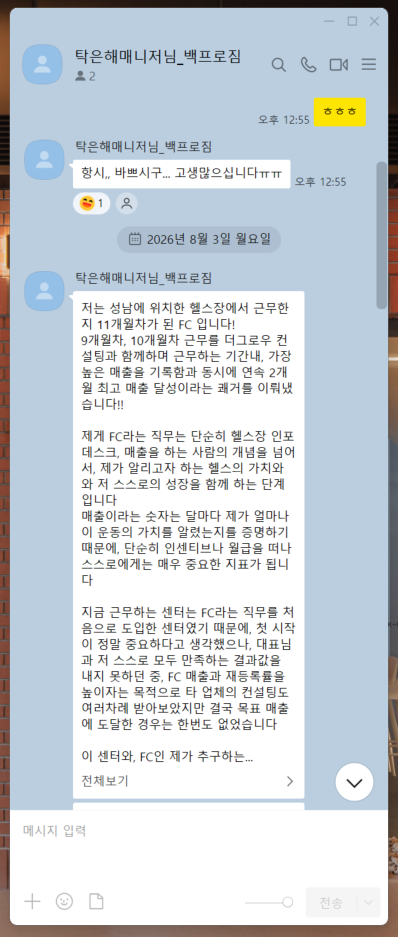
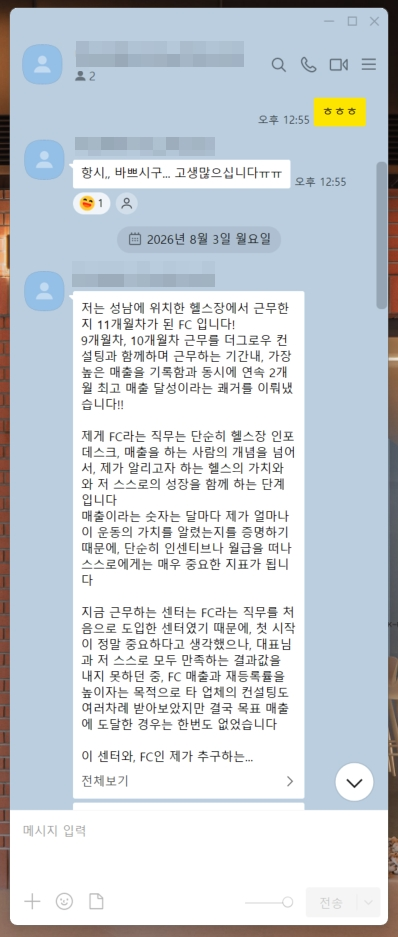
feat: 현장실습 사진 연결·후기 모자이크본 교체
· DCC_IMG.field 에 /edu/dcc/field.jpg 연결. object-position: center 30%
   으로 인물이 가운데 위쪽에 오게 잡았다. 라이트박스 확대 제외 대상이라
   DCC_NO_ZOOM 에도 올려, 나중에 zoom 을 켜더라도 제외가 유지된다.
 · 후기 3장을 모자이크 처리본으로 교체했다. 파일명을 그대로 두고 내용만
   덮어썼기 때문에 브라우저가 구버전을 캐시에서 꺼내 쓸 수 있어, 경로에
   ?v=2 를 붙여 다른 URL 로 취급되게 했다. 다음에 또 교체할 때는 숫자를 올린다.

photothumb.db (사진 뷰어가 만든 썸네일 캐시) 는 커밋에서 제외했다.

diff --git a/app/edu/diagnostic-consultant/DiagnosticConsultant.tsx b/app/edu/diagnostic-consultant/DiagnosticConsultant.tsx
@@ -23,7 +23,7 @@ import { useEffect, useRef, useState } from "react";
    · 확장자는 실제 파일과 정확히 일치시켜야 한다 (후기는 .jpg, 산출물은 .png). */
 const DCC_IMG = {
   hero: "", // 히어로 배경 (현장/강의 사진)
-  field: "", // 현장실습 사진
+  field: "/edu/dcc/field.jpg", // 현장실습 사진
   faculty: {
     kimSeungho: "/consultants/kim-seungho.jpg",
     kimJaegang: "/consultants/kim-jaegang.jpg",
@@ -36,11 +36,13 @@ const DCC_IMG = {
     "/edu/dcc/output-02.png",
     "/edu/dcc/output-03.png",
   ],
-  // 고객사 대표·관리자가 보내온 메시지 캡처
+  // 고객사 대표·관리자가 보내온 메시지 캡처.
+  // ?v=N 은 캐시 무효화용이다. 파일명을 그대로 두고 내용만 덮어쓰면 브라우저가
+  // 구버전을 캐시에서 꺼내 쓴다. 이미지를 다시 교체할 때는 이 숫자를 올린다.
   reviews: [
-    "/edu/dcc/review-01.jpg",
-    "/edu/dcc/review-02.jpg",
-    "/edu/dcc/review-03.jpg",
+    "/edu/dcc/review-01.jpg?v=2",
+    "/edu/dcc/review-02.jpg?v=2",
+    "/edu/dcc/review-03.jpg?v=2",
   ],
 };
 
@@ -52,7 +54,7 @@ const OUTPUT_CAPTIONS = [
 ];
 
 // 라이트박스 확대에서 제외할 이미지. 매출추이 그래프는 썸네일로만 보여준다.
-const DCC_NO_ZOOM = ["/edu/dcc/case02-03.png"];
+const DCC_NO_ZOOM = ["/edu/dcc/case02-03.png", "/edu/dcc/field.jpg"];
 
 /* ▼▼ 기수 변경 시 이 상수만 수정 ▼▼ */
 const DCC = {
@@ -721,6 +723,9 @@ const DETAIL_HTML = `<div class="dcc">
 .dcc-dark .dcc-fig-cap{color:#A9B8B1}
 .dcc-out-img img{object-position:top left}
 
+/* 09 현장실습 사진 — 인물이 가운데 위쪽에 오도록 */
+.dcc-field-img img{object-position:center 30%}
+
 /* 08 강사진 사진 — 얼굴이 잘리지 않게 위쪽 기준 */
 .dcc-fac-img img{object-position:center top}
 
@@ -1068,7 +1073,7 @@ const DETAIL_HTML = `<div class="dcc">
       <span class="dcc-flow-step">진단</span>
     </div>
     <p class="dcc-lead dcc-rv">최대 ${DCC.capacity}명의 교육생을 가능한 한 1인 1매장으로 배치합니다. 직원처럼 일하는 것이 아니라 고객·영업·수업·CRM·운영 흐름을 관찰하고 질문하는 실습입니다.</p>
-    <div class="dcc-rv">${imgBox(DCC_IMG.field, "현장실습 진행 모습", "16/9")}</div>
+    <div class="dcc-rv">${imgBox(DCC_IMG.field, "현장실습 진행 모습", "16/9", "dcc-field-img")}</div>
     <div class="dcc-obs">
       ${OBSERVE.map(
         (o) =>
